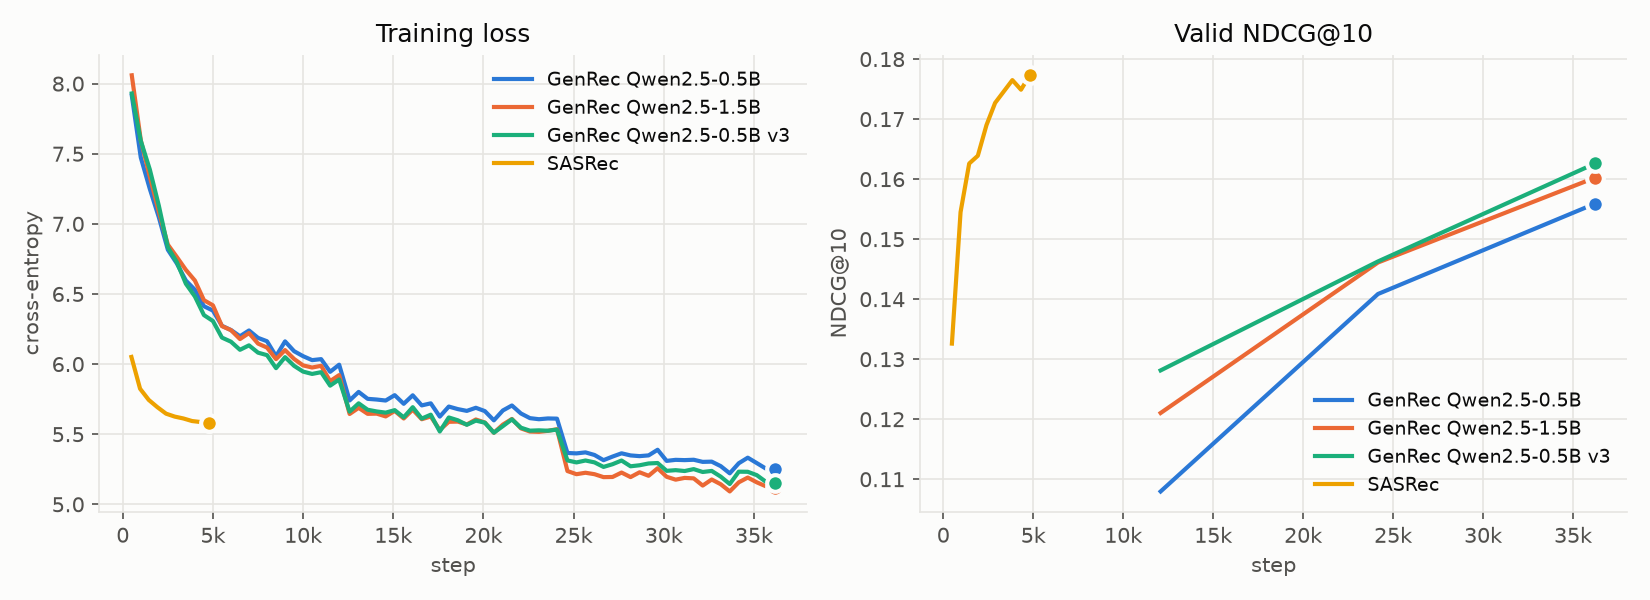
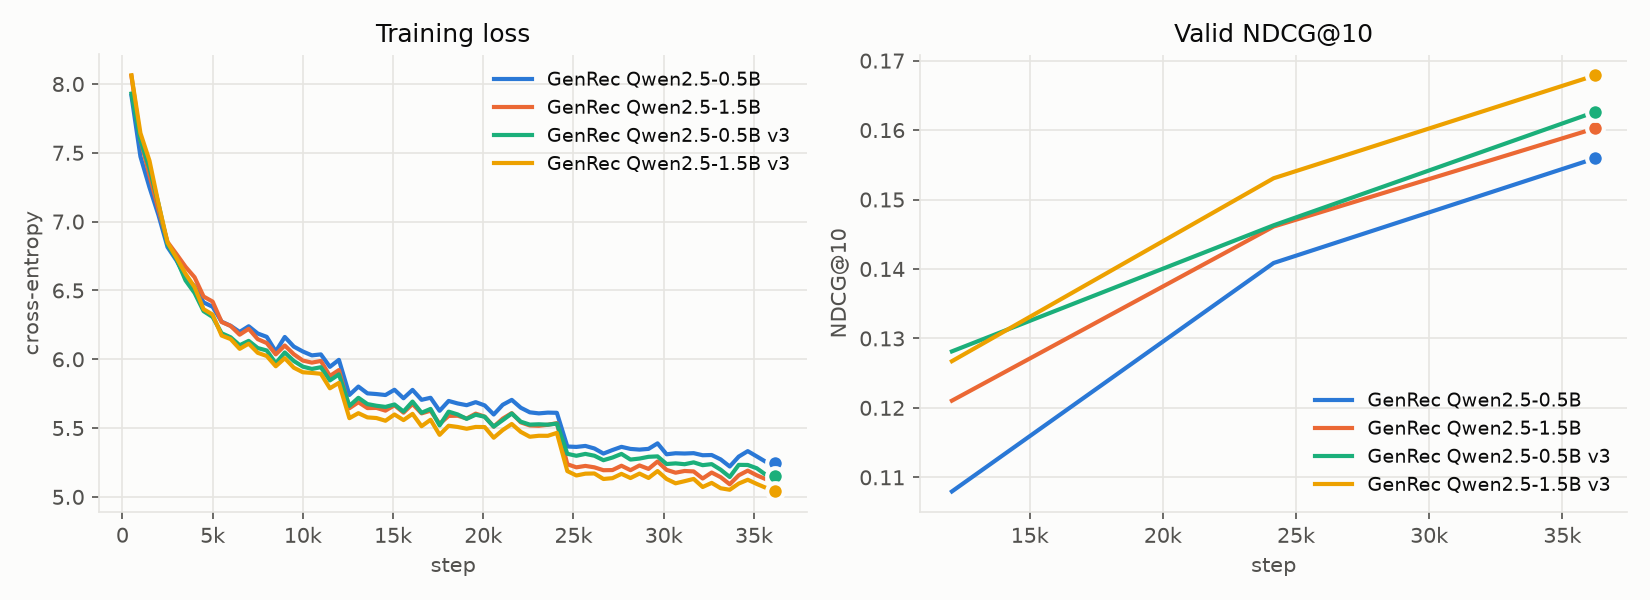
Add checkpointing, rating-weighted loss, results for v3 prompt and 1.5B
- genrec.py: save trainable params per epoch (last.pt, best.pt) and
  --resume; --rating_weight (loss weighted by target rating)
- common.py: Tee forwards unknown attributes (isatty etc.) to stdout,
  fixing a crash when loading 7B
- docs: runs table, ML-25M data-scaling plan, 1.5B v3 result
  (NDCG@10 0.1546), seed variance note (0.1500 / 0.1558), figures
- .gitignore: local Claude settings

diff --git a/genrec.py b/genrec.py
@@ -62,11 +62,11 @@ def score_fn(model, enc):
 
 
 def train_samples(d, per_user):
-    """(user, history, target) with random cut points in each train seq."""
+    """(user, history, target, target rating) with random cut points in each train seq."""
     out = []
     for u, s in enumerate(d.split("train")[0]):
         for t in random.sample(range(1, len(s)), min(per_user, len(s) - 1)):
-            out.append((u, s[:t], s[t]))
+            out.append((u, s[:t], s[t], d.ratings[u][t]))
     random.shuffle(out)
     return out
 
@@ -85,6 +85,9 @@ def train(args):
     enc = Encoder(d, tok, args.history, device, args.prompt)
     model = GenRec(d.n_items, args.backbone, args.lora_r, dtype, args.grad_ckpt).to(device)
     model.llm.print_trainable_parameters()
+    if args.resume:  # continue from a saved checkpoint (LoRA + head); a fresh LR schedule starts
+        missing = model.load_state_dict(torch.load(args.resume, map_location=device), strict=False)
+        print(f"resumed from {args.resume} ({len(missing.unexpected_keys)} unexpected keys)")
     print("example prompt:\n" + verbalize(d, d.seqs[0][:-2], d.ratings[0], args.history, args.prompt))
 
     opt = torch.optim.AdamW([
@@ -106,9 +109,13 @@ def train(args):
         samples = train_samples(d, args.samples_per_user)
         total = window = 0.0
         for step, i in enumerate(range(0, len(samples), args.batch_size), 1):
-            users, hist, tgt = zip(*samples[i:i + args.batch_size])
+            users, hist, tgt, rating = zip(*samples[i:i + args.batch_size])
             logits = model.score(model.encode(enc(users, hist)))
-            loss = F.cross_entropy(logits, torch.tensor(tgt, device=device))
+            loss = F.cross_entropy(logits, torch.tensor(tgt, device=device), reduction="none")
+            if args.rating_weight:  # paper's reward weighting: weight by rating, mean 1 per batch
+                w = torch.tensor(rating, device=device, dtype=torch.float)
+                loss = loss * w / w.mean()
+            loss = loss.mean()
             opt.zero_grad()
             loss.backward()
             torch.nn.utils.clip_grad_norm_(params, args.clip)
@@ -125,9 +132,12 @@ def train(args):
         m = evaluate(score_fn(model, enc), d, "valid", batch_size=args.eval_batch_size)
         print(f"epoch {epoch}  loss={total / step:.4f}  valid {fmt(m)}")
         log_history(run, global_step, **{f"valid_{k}": v for k, v in m.items()})
+        trainable = {k for k, p in model.named_parameters() if p.requires_grad}
+        state = {k: v.detach().cpu().clone() for k, v in model.state_dict().items() if k in trainable}
+        torch.save(state, run / "last.pt")  # trainable params only: LoRA + norm + item embeddings
         if m["NDCG@10"] > best:
-            trainable = {k for k, p in model.named_parameters() if p.requires_grad}
-            best, best_state = m["NDCG@10"], {k: v.clone() for k, v in model.state_dict().items() if k in trainable}
+            best, best_state = m["NDCG@10"], state
+            torch.save(state, run / "best.pt")
 
     minutes = (time.time() - t0) / 60
     model.load_state_dict(best_state, strict=False)
@@ -155,5 +165,7 @@ if __name__ == "__main__":
     p.add_argument("--log_every", type=int, default=50)
     p.add_argument("--warmup", type=float, default=0.05, help="fraction of steps")
     p.add_argument("--clip", type=float, default=1.0, help="grad norm clip")
+    p.add_argument("--rating_weight", action="store_true", help="weight loss by target rating")
+    p.add_argument("--resume", help="checkpoint (.pt) to start from, e.g. runs/<run>/best.pt")
     p.add_argument("--seed", type=int, default=42)
     train(p.parse_args())

diff --git a/common.py b/common.py
@@ -125,6 +125,9 @@ class Tee:
         for s in self.streams:
             s.flush()
 
+    def __getattr__(self, name):  # isatty, fileno, encoding, ... -> real stdout
+        return getattr(self.streams[0], name)
+
 
 def start_run(name, args):
     """runs/<name>_<time>/: log.txt gets everything printed."""

diff --git a/docs/plan.md b/docs/plan.md
@@ -18,16 +18,16 @@ history → text prompt → LLM → h (last token) → score_i = h · e_i → so
   ```
 
 ## Model
-- Backbone: `Qwen/Qwen2.5-{0.5B,1.5B}` + LoRA (r=16, q/k/v/o)
+- Backbone: `Qwen/Qwen2.5-{0.5B,1.5B,3B}` + LoRA (r=16, q/k/v/o); 3B is Qwen Research License (non-commercial), others Apache 2.0
 - `h` = LayerNorm(hidden state of last token)  — raw `h` norm ~300 → huge logits
 - Head: item embeddings `E ∈ R^{N×d}`, `score = h @ E.T`
 - Training: 5–10% linear warmup → linear decay, grad clip 1.0 — without it, training can collapse to popularity
 
 ## Loss
 ```
-L = α·CE(score, target_item) + β·LM(target_title)
+L = CE(score, target_item)
 ```
-- Current: α=1, β=0 (LM loss not implemented yet)
+- Paper's LM loss (β·LM(target_title)) dropped: redundant with ranking CE here; paper uses it to keep general language ability
 - Optional: weight loss by rating (paper's "reward")
 
 ## Inference
@@ -74,8 +74,40 @@ Run: `uv run python {common,sasrec,genrec}.py`
 | 2 | Baselines: Popularity, SASRec | ✅ SASRec NDCG@10 0.168 |
 | 3 | Pipeline on small subset (CPU/MPS) | ✅ |
 | 4 | First GPU run: 0.5B + LoRA | ✅ beats Popularity |
-| 5 | Ablations | 🔄 prompt v2→v3 ✅ (+4%); LM loss, history length, rating weights ⬜ |
-| 6 | Scaling: 0.5B → 1.5B → 7B | 🔄 0.5B, 1.5B ✅ (+7%); 1.5B v3 running; 7B ⬜ |
-| 7 | README: results + reproduce | ⬜ |
+| 5 | Ablations | 🔄 prompt v2→v3 ✅ (+4%); history length, rating weights ⬜ |
+| 6 | Scaling: 0.5B → 1.5B → 3B → 7B | 🔄 0.5B, 1.5B ✅ (+7%); 1.5B v3 ✅ (0.1546); 7B next; 3B queued |
+| 7 | Data scaling on ML-25M (separate benchmark) | ⬜ after current queue |
+| 8 | README: results + reproduce | ⬜ |
+
+## Runs
+Machines: **RunPod** = RTX 4090 Secure ($0.74/h) or A100 80GB (~$1.4–1.6/h) · **WSL** = local RTX 4060 Ti 16GB (~2.6× slower than 4090, $0) · **M1** = Apple M1 (MPS)
+
+| # | Run | Status | Machine | Time | Cost | Test NDCG@10 |
+|---|---|---|---|---|---|---|
+| 1 | SASRec | ✅ | M1 | 16 min | $0 | 0.1681 |
+| 2 | 0.5B v2, 1 ep | ✅ | RunPod 4090 | 26 min | $0.45 | 0.0945 |
+| 3 | 0.5B v2, 1 ep, + warmup/clip | ✅ | RunPod 4090 | 13 min | $0.25 | 0.1295 |
+| 4 | 0.5B v2, 3 ep, lr 2e-4 | ✅ | RunPod 4090 | 38 min | $0.55 | 0.1441 |
+| 5 | 1.5B v2, 3 ep, lr 1e-4 | ✅ | RunPod 4090 | 99 min | $1.40 | 0.1486 |
+| 6 | 0.5B v2, 3 ep, lr 1e-4 | ✅ | RunPod 4090 | 74 min | $1.00 | 0.1386 |
+| 7 | 0.5B v3, 3 ep, lr 2e-4 | ✅ | RunPod 4090 | 78 min | $1.30 | 0.1500 |
+| 8 | 1.5B v3, 3 ep, lr 1e-4 | ✅ best | RunPod 4090 | 3.4 h | $2.50 (+$0.85 failed pod) | **0.1546** |
+| 9 | 7B v3, 2 ep, lr 5e-5 | 🔄 running | RunPod A100 80GB | ~6.3 h | ~$10.50 (+$0.65 crashed start) | – |
+| 10 | 0.5B v3, seed 43 (noise check) | ✅ | WSL | 3.4 h | $0 | 0.1558 |
+| 11 | 0.5B v3, history 50 (`--grad_ckpt`) | ⏳ queued (4th) | WSL | ~10–12 h | $0 | – |
+| 12 | 0.5B v3, rating-weighted loss | 🔄 running | WSL | ~4 h | $0 | – |
+| 13 | 1.5B v3, 5 ep | ⏳ queued (3rd) | WSL | ~14 h | $0 | – |
+| 14 | 3B v3, 3 ep (`--grad_ckpt`) | ⏳ queued (5th) | WSL | ~17 h | $0 | – |
+
+### Planned: ML-25M data scaling (step 7)
+Fixed model (0.5B v3), vary #users sampled from ML-25M; SASRec at each size. Eval on a fixed random 10k-user subset; full catalog (~59k movies). Not comparable to ML-1M numbers.
+
+| # | Run | Status | Machine | Time | Cost | Test NDCG@10 |
+|---|---|---|---|---|---|---|
+| 15 | Code: ML-25M loader, `--dataset`, user subsample, eval subset | ⬜ | – | – | – | – |
+| 16 | SASRec, 10k / 40k / 160k users | ⬜ | WSL | ~1–3 h total | $0 | – |
+| 17 | GenRec 0.5B v3, 10k users | ⬜ | WSL | ~5 h (3 ep) | $0 | – |
+| 18 | GenRec 0.5B v3, 40k users | ⬜ | WSL | ~21 h (3 ep) | $0 | – |
+| 19 | GenRec 0.5B v3, 160k users (optional) | ⬜ | WSL / RunPod | ~28 h/epoch WSL | $0 / ~$8/epoch | – |
 
 Results → [results.md](results.md)

diff --git a/docs/results.md b/docs/results.md
@@ -7,7 +7,7 @@ MovieLens-1M · leave-one-out · test split · full catalog (3,706 items, seen i
 | Popularity | 0.0199 | 0.0369 | 0.0180 | −89% | – | – | – |
 | **SASRec** | **0.1454** | **0.2942** | **0.1681** | – | 15.8 min | Apple M1 (MPS) | – |
 | GenRec (Qwen2.5-0.5B, v3 prompt) | 0.1295 | 0.2641 | 0.1500 | −11% | 77.9 min | RTX 4090 (CUDA) | ~$1.30 |
-| GenRec (Qwen2.5-1.5B, v2 prompt) | 0.1302 | 0.2546 | 0.1486 | −12% | 99.2 min | RTX 4090 (CUDA) | ~$1.40 |
+| GenRec (Qwen2.5-1.5B, v3 prompt) | 0.1347 | 0.2669 | 0.1546 | −8% | 193.0 min | RTX 4090 (CUDA) | ~$2.50 |
 
 ## Figures
 Generated by `uv run python plot.py` from `runs/`.
@@ -22,13 +22,14 @@ Generated by `uv run python plot.py` from `runs/`.
 | Model | Config |
 |---|---|
 | SASRec | d=64, 2 layers, 1 head, max_len=200, dropout=0.2, lr=1e-3, batch=128, 100 epochs, best valid NDCG@10 |
-| GenRec | Qwen2.5-0.5B / 1.5B + LoRA r=16 (q,k,v,o), last-token h → LayerNorm → h·E, random-init E, CE over full catalog, history=20, prompt v2 (title+rating) or v3 (+genres), 16 samples/user/epoch, batch=8, lr=2e-4 (LoRA; 1e-4 for 1.5B) / 1e-3 (head), 3 epochs, bf16, 5% linear warmup (10% for 1.5B) → linear decay to 0, grad-norm clip 1.0 |
+| GenRec | Qwen2.5-0.5B / 1.5B + LoRA r=16 (q,k,v,o), last-token h → LayerNorm → h·E, random-init E, CE over full catalog, history=20, prompt v2 (title+rating) or v3 (+genres), 16 samples/user/epoch, batch=8, lr=2e-4 (LoRA; 1e-4 for 1.5B) / 1e-3 (head), 3 epochs, bf16, 5% linear warmup (10% for 1.5B), `--grad_ckpt` for 1.5B v3 → linear decay to 0, grad-norm clip 1.0 |
 
 ## Notes
 - Backbone choice is ours: the paper uses an internal ~1B–10B LLM with Netflix-specific pretraining (Phase 1); no equivalent here
 - Train time includes periodic valid eval, excludes final test eval
 - Cost = pod time (training + eval) at $0.74/h (RunPod Secure RTX 4090)
 - SASRec run-to-run variation on MPS (same seed): NDCG@10 0.1681 / 0.1701
-- Same-settings comparisons (test NDCG@10): 0.5B v2 → v3: 0.1441 → 0.1500 (+4%); 0.5B → 1.5B (v2, lr 1e-4): 0.1386 → 0.1486 (+7%)
+- Same-settings comparisons (test NDCG@10): 0.5B v2 → v3: 0.1441 → 0.1500 (+4%); 0.5B → 1.5B (v2, lr 1e-4): 0.1386 → 0.1486 (+7%); 1.5B v2 → v3: 0.1486 → 0.1546 (+4%)
+- Seed variance: 0.5B v3 seed 42 / 43 → 0.1500 / 0.1558 (±2% around 0.153). Gains under ~4% are within noise; the +4% prompt gain is not yet significant
 - Warmup + grad clip are required: without them training can collapse to popularity-level
 - Timestamps are noisy: 52.9% of consecutive ratings share a timestamp → low ceiling for next-item metrics
